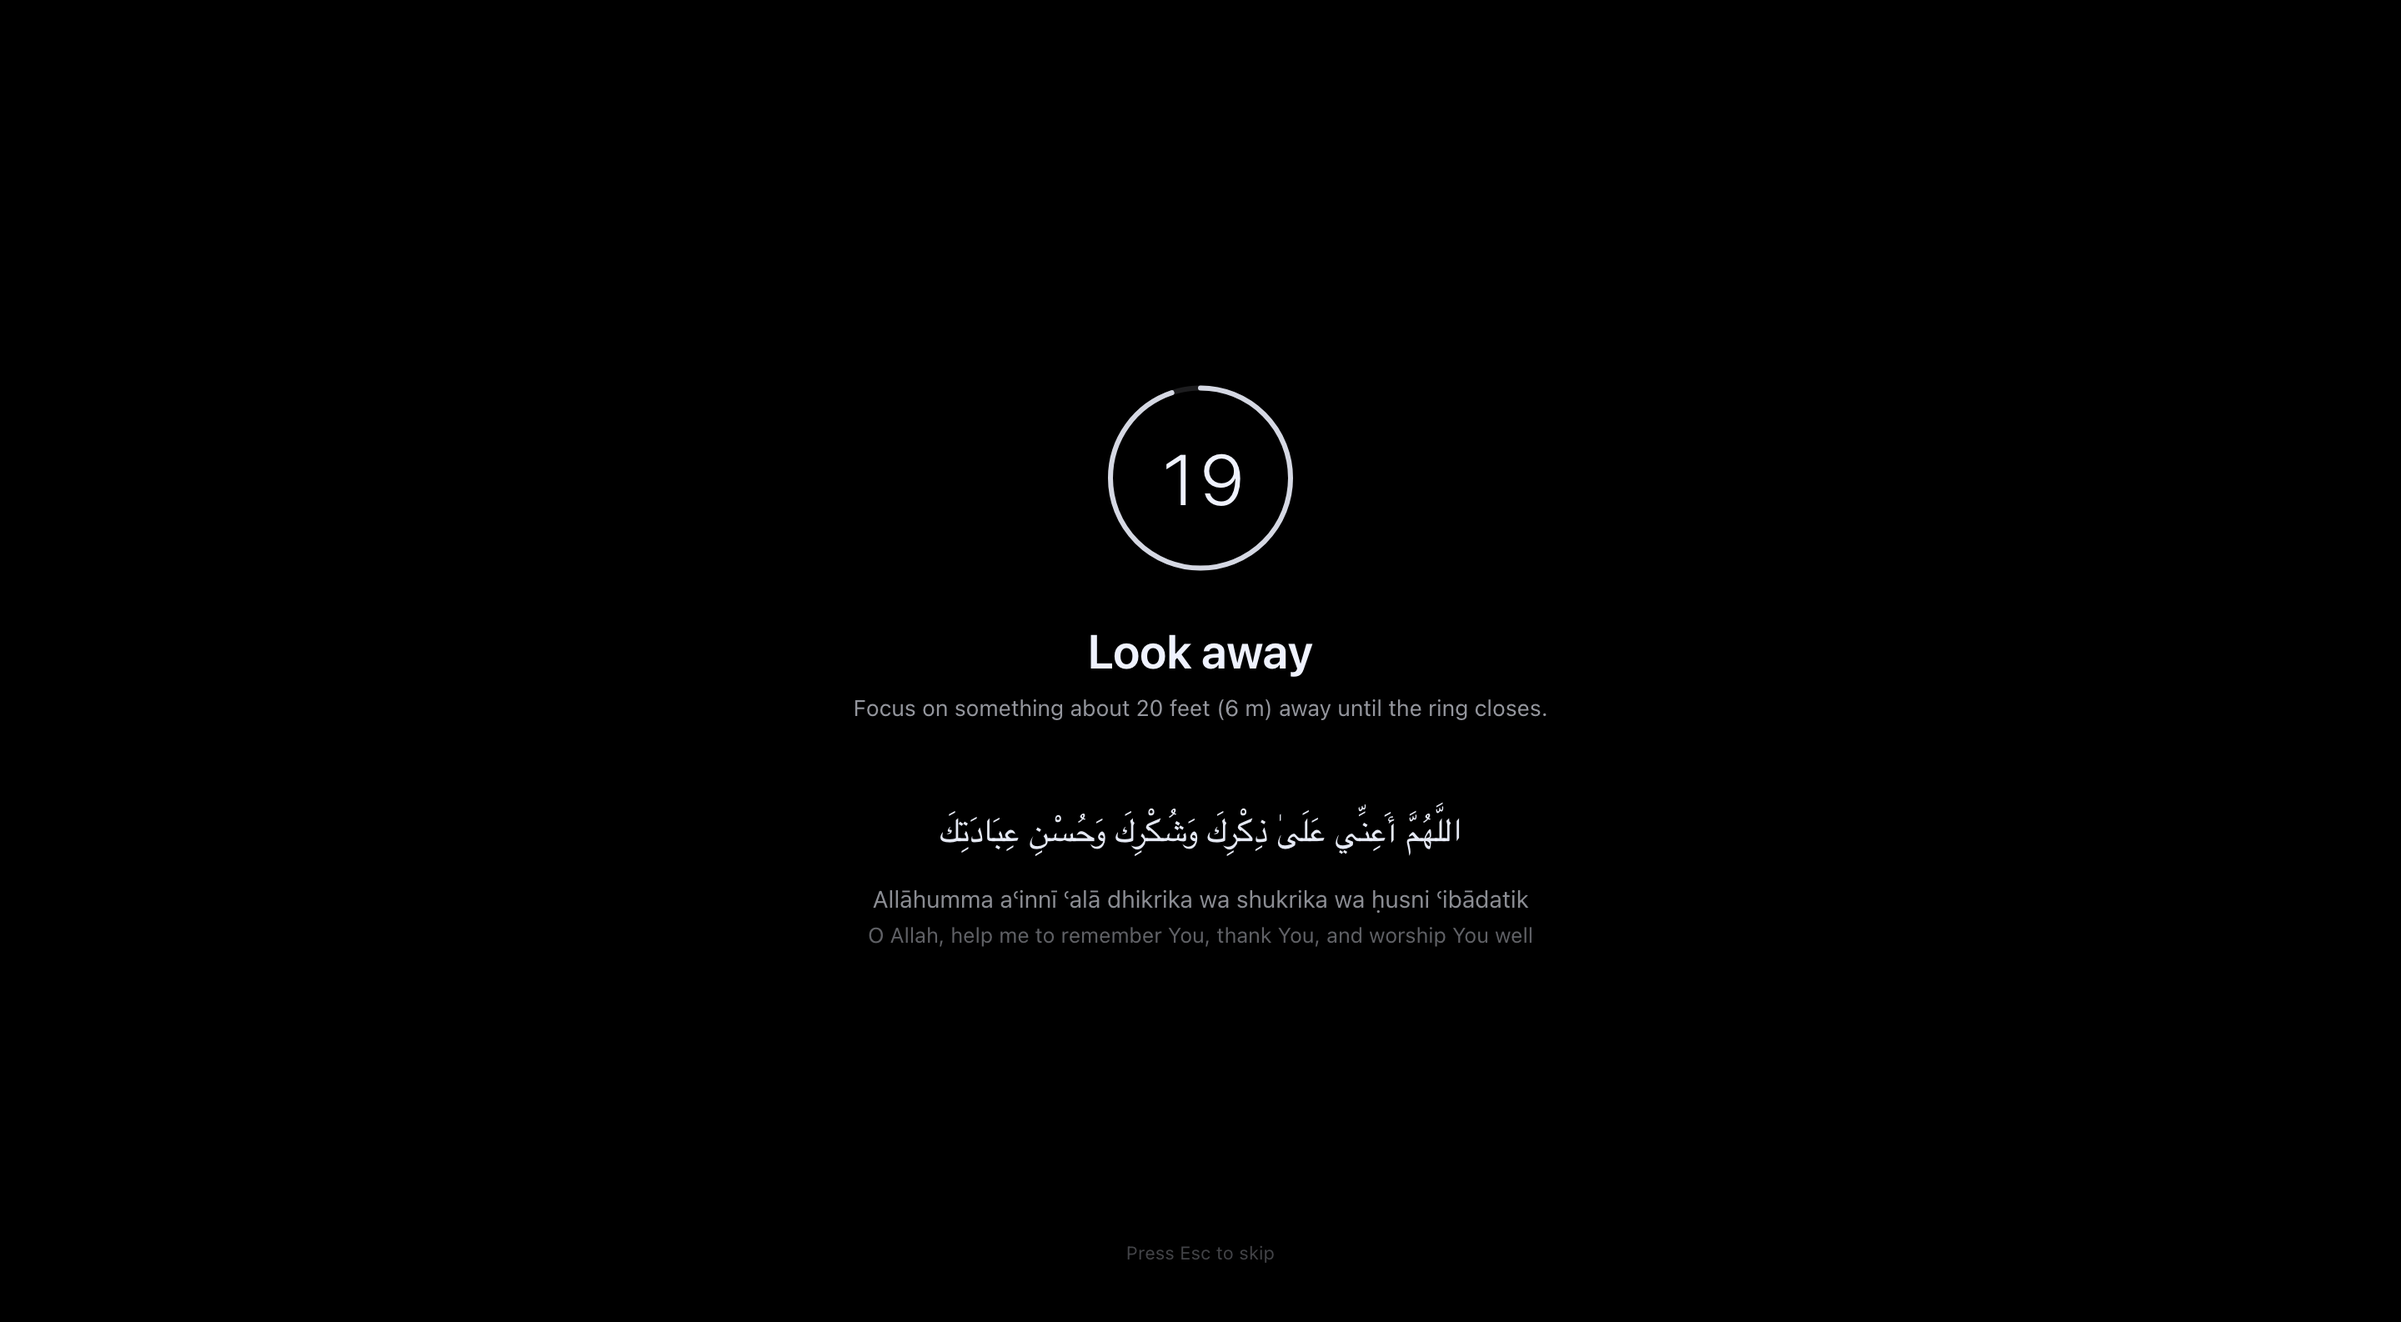
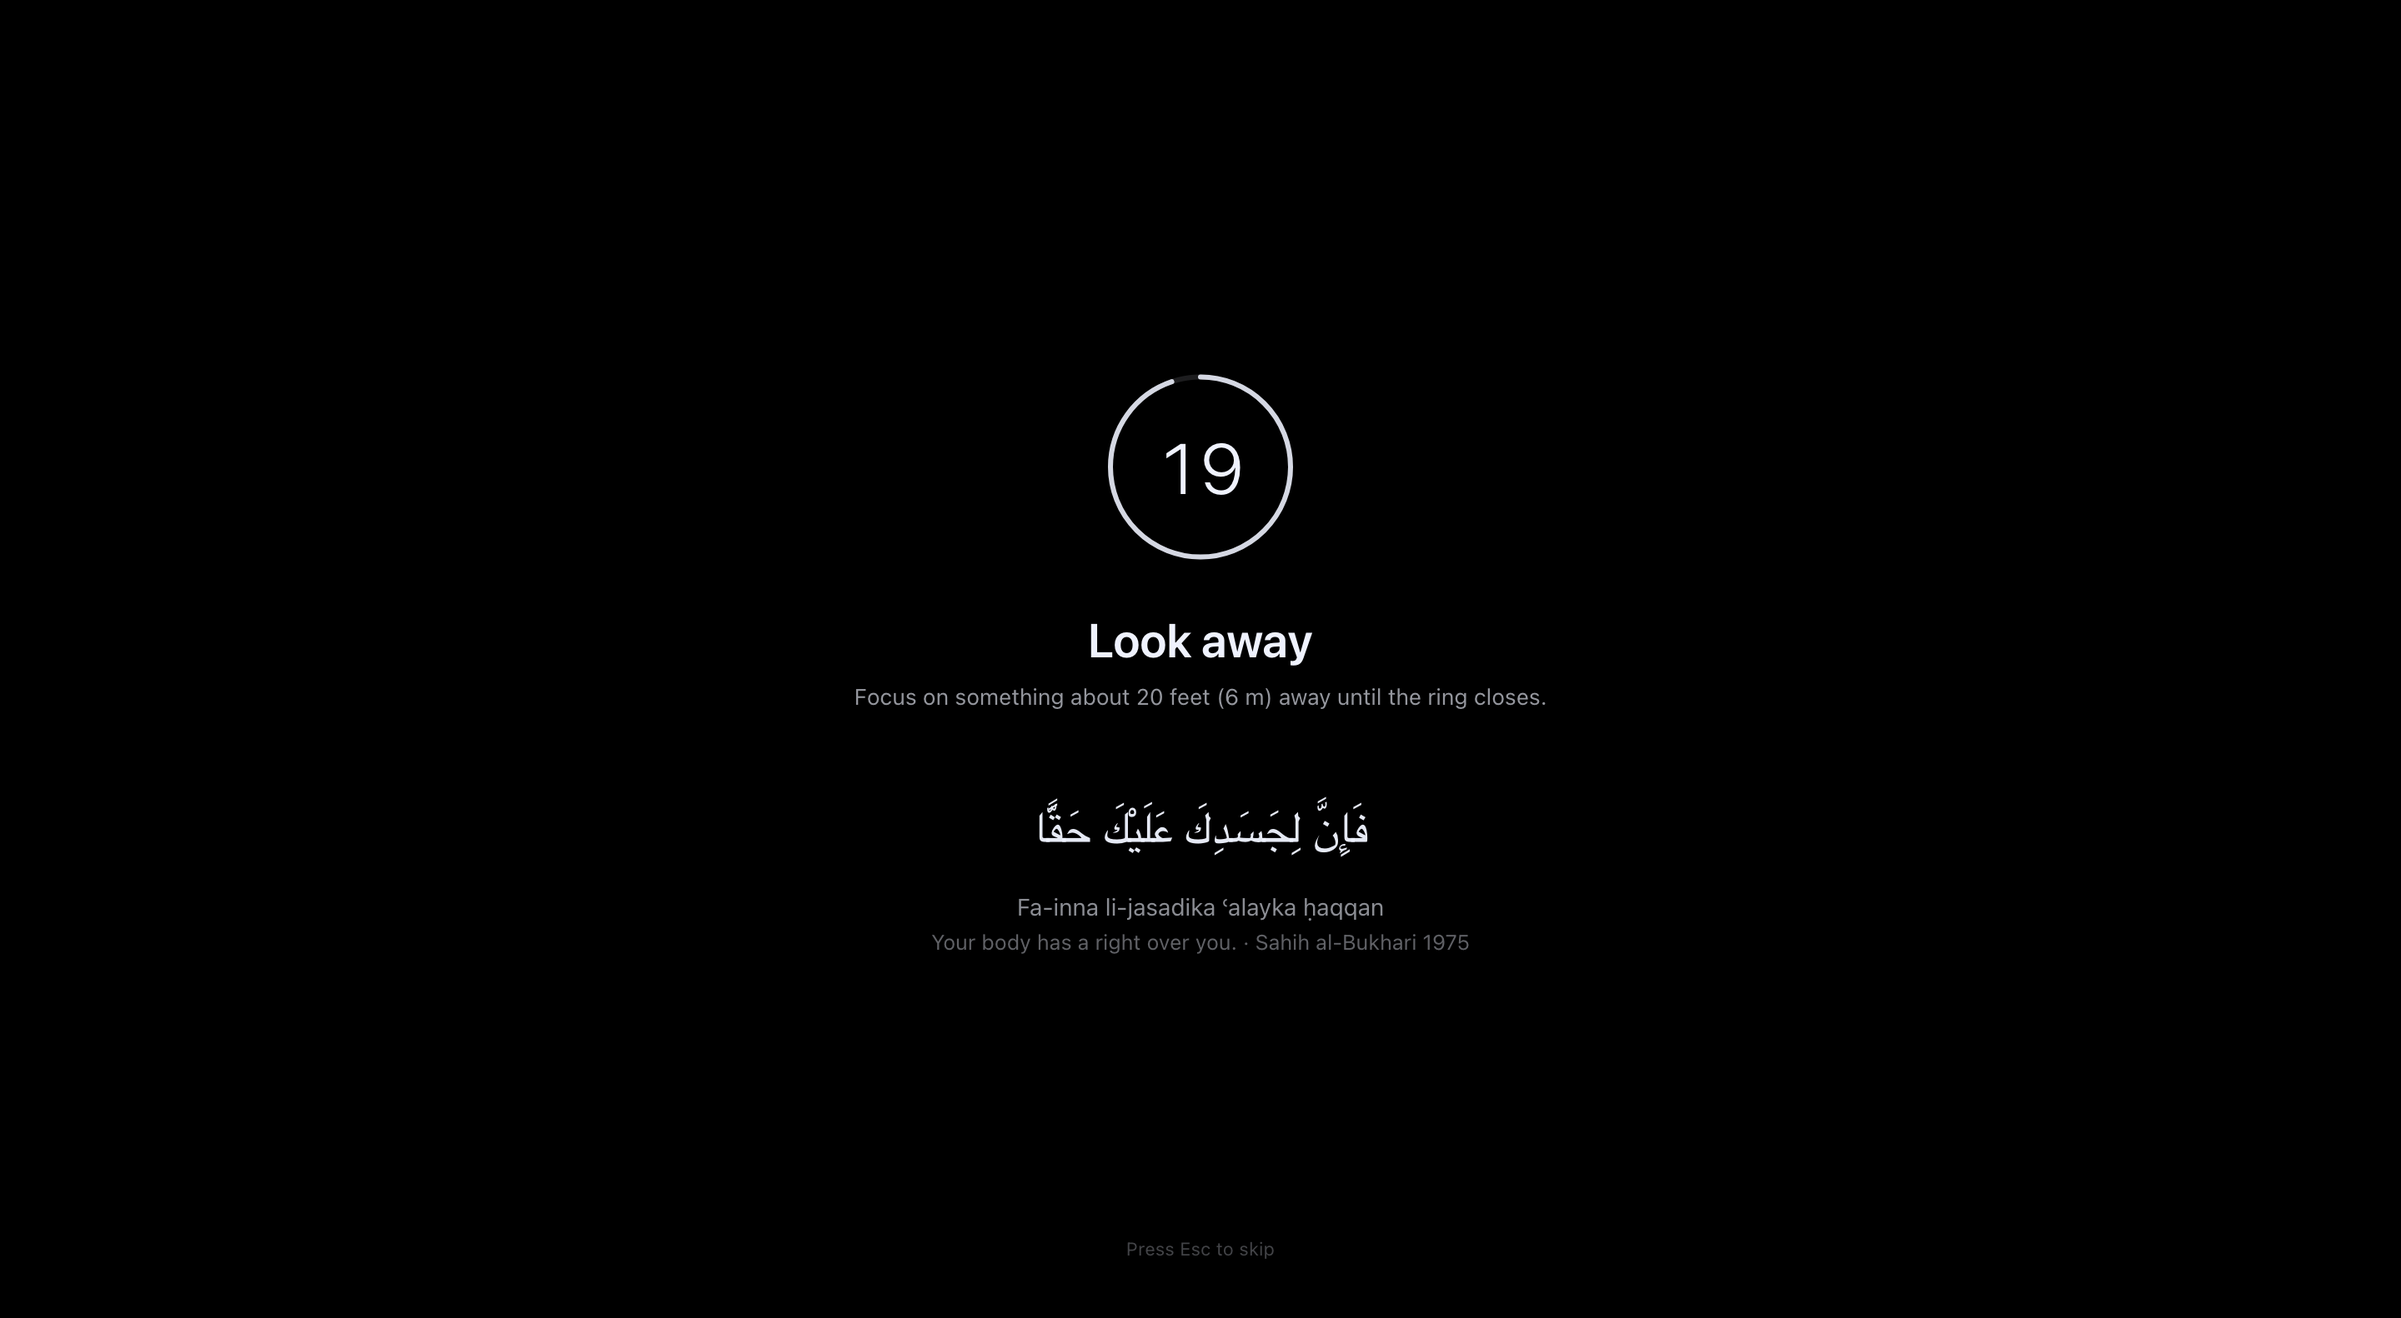
personal: add a verified Qur'an and Sunnah pack, and the personal framing
Six lines on rest, the body's rights and not overburdening yourself. Each was
checked before it went in: wording against the collection, book and number, and
grading.

Four candidates were checked and rejected, which matters more than the six that
passed:

  "اعمل لدنياك كأنك تعيش أبدا…"  Not a hadith. Al-Albani: la asla lahu
      marfu'an. It also concerns dunya against akhira, so on a break screen it
      would read as "work harder" — the opposite of the app.
  "خير الأمور أوسطها"  Not in the six books; authentic only as a mawquf saying
      of Mutarrif ibn Abdullah and Abu Qilaba.
  Qur'an 20:2  Genuine, but addressed to the Prophet about revelation, and it
      ends mid-clause; the thought completes in 20:3.
  Qur'an 9:40  The sakina verse. Tempting given the name, but it is about the
      cave, not about rest.

The rejections are recorded in the source and the README so nobody re-adds them
later. A line that cannot be traced to a collection with a grading does not go
on the screen.

The README also picks up the "why I made this" framing from main, and ties the
prayer times to it: the day already has five points that break it up whether or
not I am paying attention, and I would rather build around that than pretend the
two things are separate.

diff --git a/src/main/reminders.js b/src/main/reminders.js
@@ -22,7 +22,46 @@ const ADHKAR = [
   id: `adhkar-${i}`, pack: 'adhkar', primary, secondary, meaning, rtl: true,
 }));
 
-const BUILT_IN = { adhkar: ADHKAR };
+
+// Verified line by line against sunnah.com and quran.com: wording, collection
+// number, and grading each checked before anything went in here. Deliberately
+// left OUT, having been checked and failed:
+//
+//   "اعمل لدنياك كأنك تعيش أبدا..."  Not a hadith. Al-Albani: la asla lahu
+//       marfu'an — no basis as a report from the Prophet. It circulates as a
+//       saying of Abdullah ibn Amr. It is also about dunya versus akhira, so on
+//       a break screen it would read as "work harder" — the opposite of this.
+//   "خير الأمور أوسطها"  Not established in the six books; authentic only as a
+//       mawquf saying of Mutarrif ibn Abdullah and Abu Qilaba.
+//   Qur'an 20:2  Genuine, but it is addressed to the Prophet about revelation,
+//       and it ends mid-clause — the thought completes in 20:3. Quoted alone on
+//       a screen it becomes generic reassurance the ayah does not offer.
+//   Qur'an 9:40  The sakina verse. Tempting, given the app's name, but it is
+//       about the cave and the Prophet's companion, not about rest.
+const SUNNAH = [
+  ['فَإِنَّ لِجَسَدِكَ عَلَيْكَ حَقًّا',
+   'Fa-inna li-jasadika ʿalayka ḥaqqan',
+   'Your body has a right over you. · Sahih al-Bukhari 1975'],
+  ['إِنَّ الدِّينَ يُسْرٌ',
+   'Inna al-dīna yusrun',
+   'Religion is easy. · Sahih al-Bukhari 39'],
+  ['وَأَنَّ أَحَبَّ الأَعْمَالِ أَدْوَمُهَا إِلَى اللَّهِ، وَإِنْ قَلَّ',
+   'Wa-anna aḥabba al-aʿmāli adwamuhā ilā Allāhi, wa-in qall',
+   'The most beloved deed to Allah is the most constant, even if little. · Sahih al-Bukhari 6464'],
+  ['وَجَعَلْنَا نَوْمَكُمْ سُبَاتًا',
+   'Wa-jaʿalnā nawmakum subātā',
+   'And made your sleep a means for rest. · Qur’an 78:9 (Saheeh International)'],
+  ['وَهُوَ ٱلَّذِى جَعَلَ لَكُمُ ٱلَّيْلَ لِبَاسًا وَٱلنَّوْمَ سُبَاتًا',
+   'Wa-huwa alladhī jaʿala lakumu al-layla libāsan wa-al-nawma subātā',
+   'And it is He who has made the night for you as clothing, and sleep a means for rest. · Qur’an 25:47 (Saheeh International)'],
+  ['وَمِن رَّحْمَتِهِۦ جَعَلَ لَكُمُ ٱلَّيْلَ وَٱلنَّهَارَ لِتَسْكُنُوا۟ فِيهِ',
+   'Wa-min raḥmatihi jaʿala lakumu al-layla wa-al-nahāra li-taskunū fīhi',
+   'In His mercy He has given you night and day, so that you may rest. · Qur’an 28:73 (Abdel Haleem)'],
+].map(([primary, secondary, meaning], i) => ({
+  id: `sunnah-${i}`, pack: 'sunnah', primary, secondary, meaning, rtl: true,
+}));
+
+const BUILT_IN = { adhkar: ADHKAR, sunnah: SUNNAH };
 
 function custom() {
   return store.load().customPhrases.map((p, i) => ({
@@ -40,6 +79,7 @@ function active() {
   const s = store.load();
   const pool = [];
   if (s.packs.adhkar) pool.push(...ADHKAR);
+  if (s.packs.sunnah) pool.push(...SUNNAH);
   if (s.packs.custom) pool.push(...custom());
   return pool;
 }
@@ -61,4 +101,4 @@ function peek() {
   return pool[(store.load().cursor + 1) % pool.length];
 }
 
-module.exports = { BUILT_IN, active, advance, peek, ADHKAR };
+module.exports = { BUILT_IN, active, advance, peek, ADHKAR, SUNNAH };

diff --git a/src/renderer/settings/settings.js b/src/renderer/settings/settings.js
@@ -313,9 +313,12 @@ function render() {
   const s = state.settings;
 
   el('adhkar-count').textContent = `${state.builtIn.adhkar.length} short phrases in Arabic.`;
+  el('sunnah-count').textContent =
+    `${state.builtIn.sunnah.length} lines on rest and moderation, with references.`;
   el('custom-count').textContent = `${s.customPhrases.length} added.`;
 
   el('pack-adhkar').checked = s.packs.adhkar;
+  el('pack-sunnah').checked = s.packs.sunnah;
   el('pack-custom').checked = s.packs.custom;
 
   for (const key of ['skipWhenAway', 'waitWhilePresenting', 'strictMode', 'playSound', 'launchAtLogin']) {
@@ -336,7 +339,7 @@ function render() {
 }
 
 function wire() {
-  for (const [id, key] of [['pack-adhkar', 'adhkar'], ['pack-custom', 'custom']]) {
+  for (const [id, key] of [['pack-adhkar', 'adhkar'], ['pack-sunnah', 'sunnah'], ['pack-custom', 'custom']]) {
     el(id).addEventListener('change', (e) =>
       commit({ packs: { ...state.settings.packs, [key]: e.target.checked } }));
   }

diff --git a/src/renderer/settings/index.html b/src/renderer/settings/index.html
@@ -31,6 +31,10 @@
           <input type="checkbox" id="pack-adhkar">
         </div>
         <div class="row">
+          <div class="label"><b>Qur’an &amp; Sunnah</b><span id="sunnah-count"></span></div>
+          <input type="checkbox" id="pack-sunnah">
+        </div>
+        <div class="row">
           <div class="label"><b>My own phrases</b><span id="custom-count"></span></div>
           <input type="checkbox" id="pack-custom">
         </div>

diff --git a/scripts/shoot.js b/scripts/shoot.js
@@ -72,7 +72,7 @@ const shots = [
   ['break-adhkar', 'src/renderer/break/index.html', 1440, 900, {
     durationSec: 20, strictMode: false, title: 'Look away',
     subtitle: 'Focus on something about 20 feet (6 m) away until the ring closes.',
-    phrase: reminders.ADHKAR[8],
+    phrase: reminders.SUNNAH[0],
   }],
   ['break-walk', 'src/renderer/break/index.html', 1440, 900, {
     durationSec: 60, strictMode: false, title: 'Stand up and walk',

diff --git a/src/main/store.js b/src/main/store.js
@@ -23,7 +23,7 @@ const DEFAULTS = {
   // migrated into a prompt on first load; nothing reads them afterwards.
   workIntervalMin: 20,
   breakDurationSec: 20,
-  packs: { adhkar: true, custom: true },
+  packs: { adhkar: true, sunnah: true, custom: true },
   customPhrases: [],
   cursor: -1,
   skipWhenAway: true,

diff --git a/src/main/index.js b/src/main/index.js
@@ -272,7 +272,7 @@ function refreshTray() {
 
 ipcMain.handle('settings:get', () => ({
   settings: store.load(),
-  builtIn: { adhkar: reminders.ADHKAR },
+  builtIn: { adhkar: reminders.ADHKAR, sunnah: reminders.SUNNAH },
   platform: process.platform,
   version: app.getVersion(),
 }));

diff --git a/README.md b/README.md
@@ -4,6 +4,10 @@
   <p><em>Stillness, on a timer.</em></p>
 </div>
 
+> This is my own branch. It has everything the public one has, plus the two
+> things that are mine: the adhkar and Qur'an lines, and prayer times for
+> wherever I am. The general version lives on `main`.
+
 Sakina is a menu-bar / system-tray app for **macOS and Windows** that interrupts
 you on purpose. You write the prompts and set how often each one fires. Every
 display dims, a ring counts down, and your own words sit in the middle of it.
@@ -11,11 +15,36 @@ display dims, a ring counts down, and your own words sit in the middle of it.
 *Look away* every 20 minutes. *Stand up and walk* every hour. *Say what you just
 read, out loud* every 90 minutes. Each on its own clock, in your own words.
 
-It also knows the five prayer times where you are, and can tell you before each
-one arrives.
+It also knows the five prayer times where I am, and tells me before each one
+arrives.
 
-All of it exists for one reason: nothing about staring at a screen reminds you
-to stop staring at a screen.
+## Why I made this
+
+I kept meaning to take breaks and never did. Nothing about staring at a screen
+reminds you to stop staring at a screen, and a sticky note on the monitor lasts
+about a day.
+
+So I wrote something that interrupts me instead. Then I got curious whether the
+advice I was building on top of was even true, and started reading the actual
+papers rather than the blog posts about them. That is what
+[Why bother](#why-bother) is — I am still working through it, and I expect to
+spend a weekend or two more on it.
+
+What is already clear is that the 20-20-20 rule is much weaker than its
+popularity suggests. Someone did eventually test those exact numbers, and
+twenty-second breaks made no measurable difference to symptoms, reading speed or
+accuracy. The parts that hold up are less catchy: breaks do not cost you
+productivity, discomfort builds while you sit, your blink rate collapses while
+you read, and switching to a different task beats sitting idle if you want to
+keep concentrating.
+
+So the app has no opinion about your intervals. Write your own prompts, set your
+own timings, and change them when they stop working.
+
+The same instinct is why the prayer times are in here. The day already has a
+shape — five points that break it up whether or not I am paying attention. I
+would rather build my working rhythm around that than pretend the two are
+separate.
 
 ![A break screen showing a dhikr](docs/screenshots/break-adhkar.png)
 
@@ -89,11 +118,24 @@ What seems to matter is switching, not idling. Ariga and Lleras (2011) found onl
 
 Do not oversell the mind-wandering angle. A two-study replication attempt (N = 443) reported "we found no evidence for the claim that mind wandering during a creative-incubation interval facilitates a form of creativity associated with divergent thinking" (Murray et al., 2024, [doi:10.1037/aca0000420](https://doi.org/10.1037/aca0000420)). "Look at something green" is on similarly thin ice: a review of Attention Restoration Theory ran meta-analyses on objective attention measures and found "The remaining 10 meta-analyses did not show marked beneficial effects" (Ohly et al., 2016, [doi:10.1080/10937404.2016.1196155](https://doi.org/10.1080/10937404.2016.1196155)).
 
-### Limits of all of the above
+### What it adds up to
 
-Nearly every study here is small (n = 20 to 51 is typical), single-site, and short (one 40-minute session in several cases). Most outcomes are self-reported symptom questionnaires, not clinical signs. Very few are randomised controlled trials, and where reviews exist they say so themselves: a review of breaks and computer work noted "Some studies reported on productivity levels after exercise and/or rest breaks, but the findings appeared to be inconsistent", and its independent CRD assessors judged that its "authors' conclusions should be interpreted with caution and may not be reliable" ([DARE record NBK73578](https://www.ncbi.nlm.nih.gov/books/NBK73578/)). The eye-strain literature also lacks an agreed definition of the condition: pooled prevalence is 69.0% but with I2 of 99.7% and study estimates ranging "from 12.1 to 97.3% across studies" (Ccami-Bernal et al., 2024, [doi:10.1016/j.optom.2023.100482](https://doi.org/10.1016/j.optom.2023.100482)).
+Most of these studies are small. Twenty to fifty people, one site, often a
+single session under an hour. Most of what they measure is how people say they
+feel, not anything a clinician would check. The reviews hedge, and one had its
+own independent assessors write that its "authors' conclusions should be
+interpreted with caution and may not be reliable"
+([DARE record](https://www.ncbi.nlm.nih.gov/books/NBK73578/)). Even the basic
+prevalence figures wobble: pooled computer vision syndrome comes out at 69%, but
+the individual studies range "from 12.1 to 97.3%" (Ccami-Bernal et al., 2024,
+[doi:10.1016/j.optom.2023.100482](https://doi.org/10.1016/j.optom.2023.100482)).
 
-Nothing here identifies an optimal interval. Sakina ships defaults, not evidence-based numbers, which is why every prompt and every interval is yours to change.
+So none of this tells you when to take a break. The 20 in 20-20-20 was picked
+because it is easy to remember, and when someone finally tested those numbers,
+they did not do much.
+
+Which is why Sakina has no opinion about your intervals. Pick something you will
+actually keep, and change it when it stops working.
 
 ## Prayer times
 
@@ -130,7 +172,23 @@ A prompt can optionally show a rotating **phrase** underneath its title:
 
 - **Adhkar** — 9 short phrases in Arabic, with transliteration and translation,
   short enough to say two or three times with your eyes off the screen.
+- **Qur'an & Sunnah** — 6 lines on rest, the body's rights, and not
+  overburdening yourself, each with its reference.
 - **Your own** — any text, with an optional right-to-left toggle.
+
+Everything in that second pack was checked before it went in: wording, book and
+number, and grading. Four candidates were checked and **rejected**, which is
+worth recording because the first two are quoted constantly:
+
+| Rejected | Why |
+| --- | --- |
+| *"اعمل لدنياك كأنك تعيش أبداً…"* | Not a hadith. Al-Albani: *lā aṣla lahu marfūʿan* — no basis as a report from the Prophet. It is also about dunyā versus ākhira, so on a break screen it would read as *work harder*. |
+| *"خير الأمور أوسطها"* | Not established in the six books; authentic only as a *mawqūf* saying of Muṭarrif ibn ʿAbdullāh and Abū Qilāba. |
+| Qur'an 20:2 | Genuine, but addressed to the Prophet about revelation, and it ends mid-clause — the thought completes in 20:3. |
+| Qur'an 9:40 | The *sakīna* verse. Tempting given the name, but it is about the cave, not about rest. |
+
+If a line cannot be traced to a collection with a grading, it does not go on the
+screen. Getting this wrong matters more than shipping the feature.
 
 Phrases rotate **in order** so you see the whole set instead of the same two
 lines all morning.
